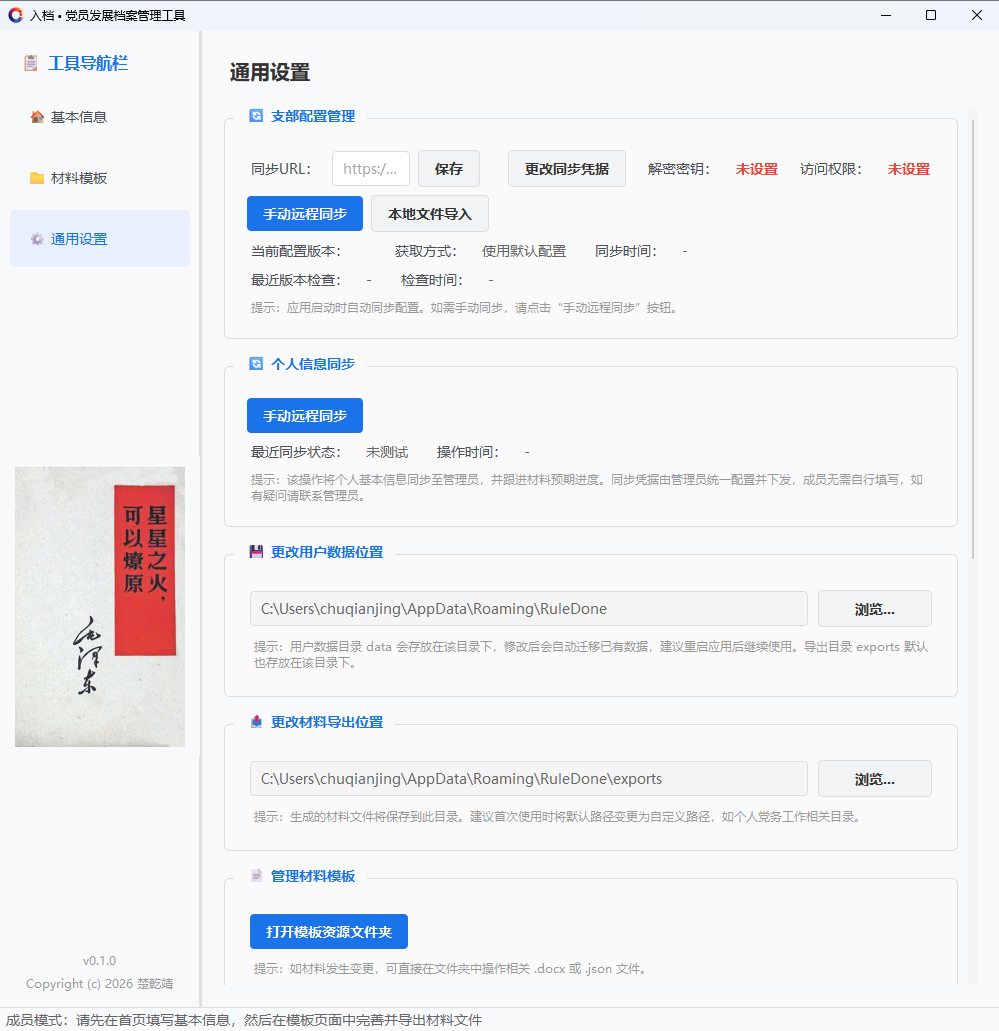
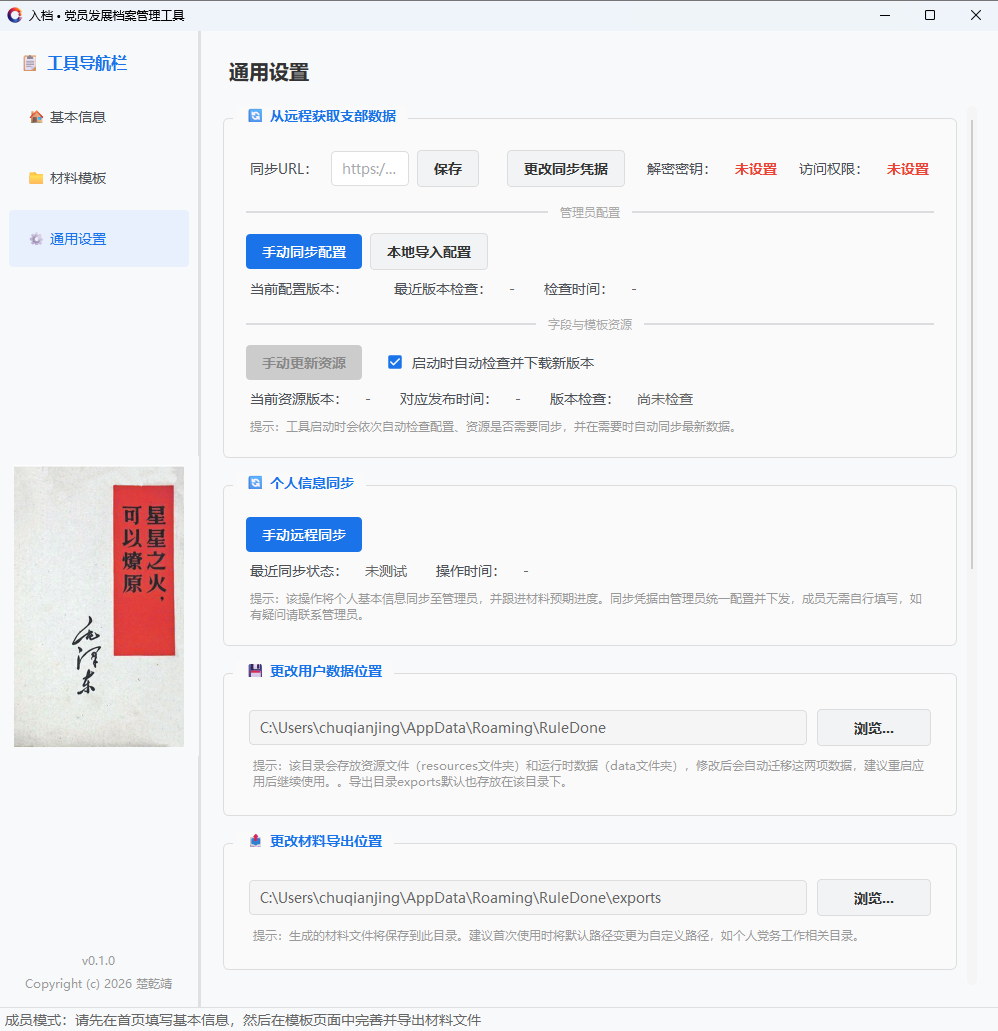
feat: 工具首次启动以成员模式运行时，获取支部配置后、增加自动更新支部资源的功能；更新README和用户文档

diff --git a/src/ui/main_window.py b/src/ui/main_window.py
@@ -368,6 +368,8 @@ class MainWindow(QMainWindow):
             self._check_decrypt_key_on_startup()
             if self._prepare_admin_config_for_member():     # 先获取支部管理员配置
                 self.show_member_home_page()
+                # 与常规成员启动保持一致：配置同步完成后继续检查模板与字段资源、并启动信息自动同步
+                self.check_config_sync_on_startup()
             else:
                 sys.exit(0)
         else:

diff --git a/docs/user-guide.md b/docs/user-guide.md
@@ -33,18 +33,27 @@
 
 ## 党支部管理员操作指南
 
-### 1、制定模板
+### 1、制定资源
 
-各地、各基层使用的模板不尽相同，因此工具并未提供可直接使用的模板。各支部需要结合自身实际，按如下步骤制定模板、并将其存放至指定目录。
+这里的资源特指支部自身场景需要的字段定义、实际的材料模板和其配置说明。由于各地、各基层使用的资源不尽相同，所以工具并未提供可直接使用的模板。各支部需要结合自身实际，在工具内置示例资源的基础上，在管理员端「通用设置」页的「管理字段和模板资源」分组，打开资源文件夹，按如下步骤进行资源的定制化修改、编写，并将其同步给成员使用。
 
->注：地方特定等级党委下属的各支部通常会使用相同模板，建议同属各支部针对该等级统一制定模板，减少重复工作。
+>注：地方特定等级党委下属的各支部通常会使用相同资源，建议同属各支部针对该等级统一制定资源，减少重复工作。
 
-#### 标记占位符
+#### 完善字段定义
 
-汇总发展流程全部材料为 `.docx` 格式的文档，使用形如 `{{代填项名称}}` 的占位符在代填项处进行标记。请务必注意以下标记规则：
+`fields_definition.json` 是字段规则文件，位于资源文件夹的 `schema/` 目录下，用于定义工具中呈现的各类字段，共分三类：
+- `admin_fields`：管理员字段，按 `group` 分组（如“党支部信息”“公共信息”），在管理员端「基本信息」页按组填写；
+- `member_fields`：成员个人字段（如“姓名”“身份证号”），在成员端「基本信息」页填写；
+- `template_fields`：模板专有项，工具会按 `match_keywords` 匹配 `{{占位符}}`，在「模板详情」页呈现对应填写控件。
+
+各字段常用属性：`key` 为字段名，`type` 为类型（`text`、`number`、`textarea`、`select`、`date` 等），`required` 表示是否必填，`display.order` 控制呈现顺序、`display.placeholder` 为占位提示。管理员可根据实际业务需求，添加分组、修改字段定义。
+
+#### 标记模板材料
+
+汇总发展流程全部材料为 `.docx` 格式的文档，将它们放置在资源文件夹的 `templates/` 目录下。在使用前，需要对每个文件使用形如 `{{代填项名称}}` 的占位符在代填项处进行标记。请务必注意以下标记规则：
   - 工具的「模板详情」页展示的项名即为 `{{...}}` 中的“代填项名称”；
   - 必要时，请使用短下划线“_”来分隔“代填项名称”的语义，例如“党支部意见_内容”；
-  - “代填项名称”中包含特定字符时，界面对该项的呈现样式会有不同：
+  - “代填项名称”中包含特定字符时，界面对该项的呈现样式由此前定义的 `fields_definition.json` 中的相关字段决定。内置资源中的模板字段格式如下：
     ```bash
      "要求"、"填写要求"：15行左右的文本类型
      "内容"、"填写内容"：3行左右的文本类型
@@ -61,7 +70,7 @@
 
 #### 编写配置文件
 
-访问相应网站下载 [templates_config.json](https://github.com/chuqianjing/rule-done-content/blob/main/templates_config.json)，并在该示例基础上修改。该文件用以在工具界面中标记所有模板文件的阶段、用途等信息。建议支部根据本地工作实际，认真编写该文件，增强成员对党员发展工作的严肃认识和组织意识。该文件中各字段含义说明如下：
+`templates_config.json` 是关于模板的配置说明文件，位于资源文件夹的 `templates/` 目录下，管理员可在此示例基础上修改。该文件用以在工具界面中标记所有模板文件的阶段、用途等信息。建议支部根据本地工作实际，认真编写该文件，增强成员对党员发展工作的严肃认识和组织意识。该文件中各字段含义说明如下：
 ```json
 {
   "stages": [
@@ -85,13 +94,10 @@
 }
 ```
 
-#### 放入指定目录
+#### 发布资源
 
-在「通用设置」页的「管理材料模板」分组，将 `templates_config.json` 和所有 `.docx` 文档放置到打开的文件夹中。重启工具，即可使用模板。
+在「通用设置」页的「发布支部数据至远程」分组，点击「发布资源」将其上传至远程，资源对应的URL会自动回填至首页对应配置项中。其中的同步设置项操作请见下文 [发布配置](#3发布配置)。
 
-<div align="center">
-  <img src="photos/模板放入指定目录.png" width="100%" alt="alt text">
-</div>
 
 ### 2、填写配置
 
@@ -112,7 +118,7 @@
 
 ### 3、发布配置
 
-由于资金有限，工具目前是借助第三方平台来实现双端通信的。一方面，管理员将配置文件 `admin_config.json` 推送至远程仓库、成员端自动拉取该文件到本地；另一方面，成员基本信息可以自动传输到管理员管理的在线表格。这两方面均须管理员设置相关同步项，这些同步项也会保存在配置文件中以供成员端使用。
+由于资金有限，工具目前是借助第三方平台来实现双端通信的。一方面，管理员将配置文件 `admin_config.json` 和资源等推送至远程仓库、成员端自动拉取相关数据到本地；另一方面，成员基本信息可以自动传输到管理员管理的在线表格。这两方面均须管理员设置相关同步项，这些同步项也会保存在配置文件中以供成员端使用。
 
 >注：设置同步项略微麻烦，但好在只需最初设置一次，后续沿用即可。当然，建议属于同一基层党委的各支部尽可能共享若干同步设置项，减少不必要重复工作。例如，可在同一仓库中存放不同支部的文件。
 
@@ -158,17 +164,7 @@
 
 首次使用时，需要获取所在支部的管理员配置文件 `admin_config.json`，且默认需要为该文件的远程获取设置同步凭据。
 
-#### 方式一：通过 URL 同步
-
-- 向支部管理员获取配置同步 URL
-- 启动应用时选择「通过 URL 同步配置」
-- 输入 URL 完成同步
-
-#### 方式二：从本地导入
-
-- 向支部管理员获取配置文件
-- 启动应用时选择「从本地导入配置文件」
-- 选择文件完成导入
+成员须向支部管理员获取配置同步 URL，启动应用时选择「通过 URL 同步配置」，输入 URL 完成同步。必要时也可使用「从本地导入配置文件」方式来同步。
 
 ### 2、完善材料
 
@@ -223,12 +219,10 @@
 
 ### 1、定义字段
 
-分析任务场景，确定个体基本项、整体基本项、模板常见项，并制定每项的规则，编写字段规则文件 `fields_definition.json`，将其放入 `resources/schema/` 目录下（该目录与材料模板文件夹的是同级的）。以就业类的表格材料为例，可能的字段规则定义如下：
+分析任务场景，确定个体基本项、整体基本项、模板常见项，并制定每项的规则，编写字段规则文件 `fields_definition.json`。以就业类的表格材料为例，可能的字段规则定义如下：
 
 ```json
 {
-  "version": "1.0.0",
-  "last_updated": "2026-01-01",
   "admin_fields": [
     {
       "group": "部门",
@@ -255,8 +249,8 @@
 }
 ```
 
-### 2、准备模板
-按照[党支部管理员操作指南中的相关步骤](#1制定模板)制定模板。
+### 2、准备模板和配置说明
+按照[党支部管理员操作指南中的相关步骤](#1制定资源)继续制定相关资源。
 
 
 ### 3、在工具中使用

diff --git a/docs/sync_guide.md b/docs/sync_guide.md
@@ -126,12 +126,14 @@ main()
 | :---: | :---: |
 | 仓库 | `owner/repo`，即仓库归属者/仓库名 |
 | 分支 | 默认 `main`，填写目标分支 |
-| 文件路径 | 默认 `admin_config.json`，即远程仓库中的存放路径 |
 | Token | 此前生成的管理员端token |
+| 资源文件路径 | 默认 `resources`，远程仓库中资源数据的存放位置 |
+| 配置文件路径 | 默认 `admin_config.json`，远程仓库中配置数据的存放位置 |
+| 加密密钥 | 配置文件上传至远程时要先加密 |
 
-成员端拉取使用的 URL 为：`https://raw.githubusercontent.com/{owner}/{repo}/{branch}/{文件路径}`。
+成员端拉取配置使用的 URL 为：`https://raw.githubusercontent.com/{owner}/{repo}/{branch}/{配置文件路径}`。请将此 URL 先填入「基本信息」页对应配置项后再进行发布配置操作。
 
-在成员端首次打开工具时弹出的「同步凭据设置」窗口、或「通用设置」页相应板块，填入此前生成的成员端token。
+在成员端首次打开工具时弹出的「同步凭据设置」窗口、或「通用设置」页相应板块，填入配置文件加密密钥和此前生成的成员端token。
 
 ### 2、阿里云 OSS
 
@@ -190,8 +192,10 @@ main()
 | Object Key | 默认 `admin_config.json`，即对象在桶中的存放路径 |
 | AccessKey Id | 管理员端 RAM 子用户的访问密钥 ID |
 | AccessKey Secret | 管理员端 RAM 子用户的访问密钥 Secret |
+| 资源文件路径 | 默认 `resources`，远程仓库中资源数据的存放位置 |
+| 配置文件路径 | 默认 `admin_config.json`，远程仓库中配置数据的存放位置 |
+| 加密密钥 | 配置文件上传至远程时要先加密 |
 
-成员端拉取使用的 URL 为：`https://{bucket}.{endpoint}/{object_key}`。
+成员端拉取使用的 URL 为：`https://{bucket}.{endpoint}/{配置文件路径}`。请将此 URL 先填入「基本信息」页对应配置项后再进行发布配置操作。
 
-在成员端首次打开工具时弹出的「同步凭据设置」窗口、或「通用设置」页相应板块，填入此前生成的成员端 RAM 子用户的 **AccessKey Id** 和 **AccessKey Secret**。
-
+在成员端首次打开工具时弹出的「同步凭据设置」窗口、或「通用设置」页相应板块，填入配置文件加密密钥、此前生成的成员端 RAM 子用户的 **AccessKey Id** 和 **AccessKey Secret**。

diff --git a/README.md b/README.md
@@ -45,16 +45,16 @@
   支持「党支部管理员」与「发展成员」两种角色。管理员配置支部信息和模板通用字段，成员专注填写个人信息，实现数据分离与协作。
 
 - **数据远程同步**
-  成员端可通过远程网站静态资源的 `URL` 自动同步支部配置，管理员更新后无需逐一分发，只需在工具中将配置同步至该 `URL`。且成员基本信息亦可同步至支部成员在线汇总表并实现相关项的双端同步，支部始终保持数据一致。
+  成员端可通过远程静态资源的 `URL` 自动同步支部配置、字段和模板资源，管理员更新后无需逐一分发，只需在工具中将相关数据同步至 `URL`。且成员基本信息亦可同步至支部成员在线汇总表并实现相关项的双端同步，支部始终保持数据一致。
 
 - **配置快照机制**
   管理员配置仅在当前一定时段内作用于当前发展批次的成员端，此后管理员更新配置将不再影响该批次成员端已填写材料的专有项数据呈现，使当时数据可以持续留存。
 
-- **模板定制服务**
-  各支部或基层组织可根据自身实际定制含有占位符的模板文件，并撰写相应 `JSON` 配置说明，将模板分发至成员，成员导出的 `Word` 文档即开即用。
+- **档案定制服务**
+  各支部或基层组织可根据自身实际，在工具内置示例资源的基础上，自行修改字段定义文件、编写含有占位符的模板文件和对应的模板配置文件，将资源同步至成员，成员导出的 `Word` 文档即开即用。
 
 - **数据安全加密**
-  提供银行级别加密方案保护用户本地敏感数据，支持密码验证、加密存储、密码修改等完整安全机制。
+  提供企业级加密方案实现数据在远程传输和本地存储时的安全性，支持访问控制、加密传输与存储等完整安全机制。
   
 
 ## 快速上手

diff --git a/docs/developer-guide.md b/docs/developer-guide.md
@@ -1,7 +1,7 @@
 # 开发者文档
 
 
-本文档介绍 **「入档 • 党员发展档案管理工具」** 的技术架构和开发说明，帮助开发者参与项目开发。
+本文档介绍 **「入档 • 党员发展档案管理工具」** 的技术架构和开发说明，帮助开发者参与项目开发。（该文档暂未更新至项目当前实际情况）
 
 ---
 
